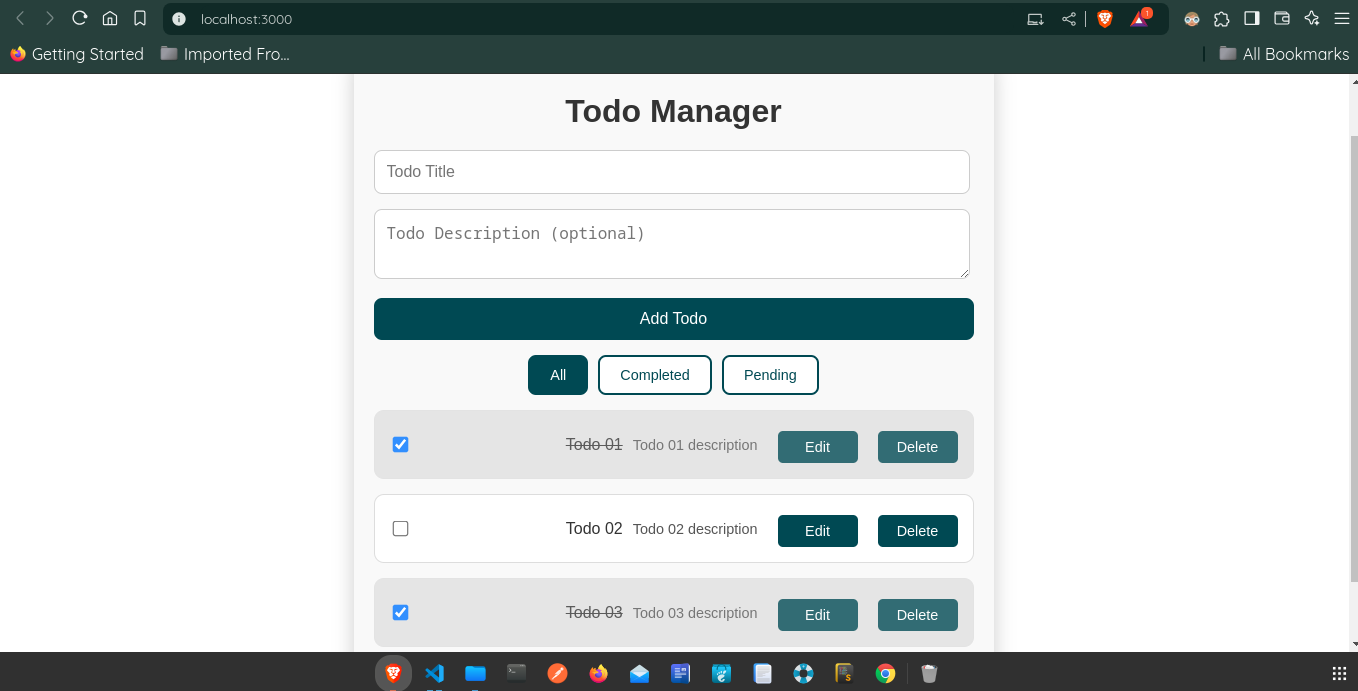
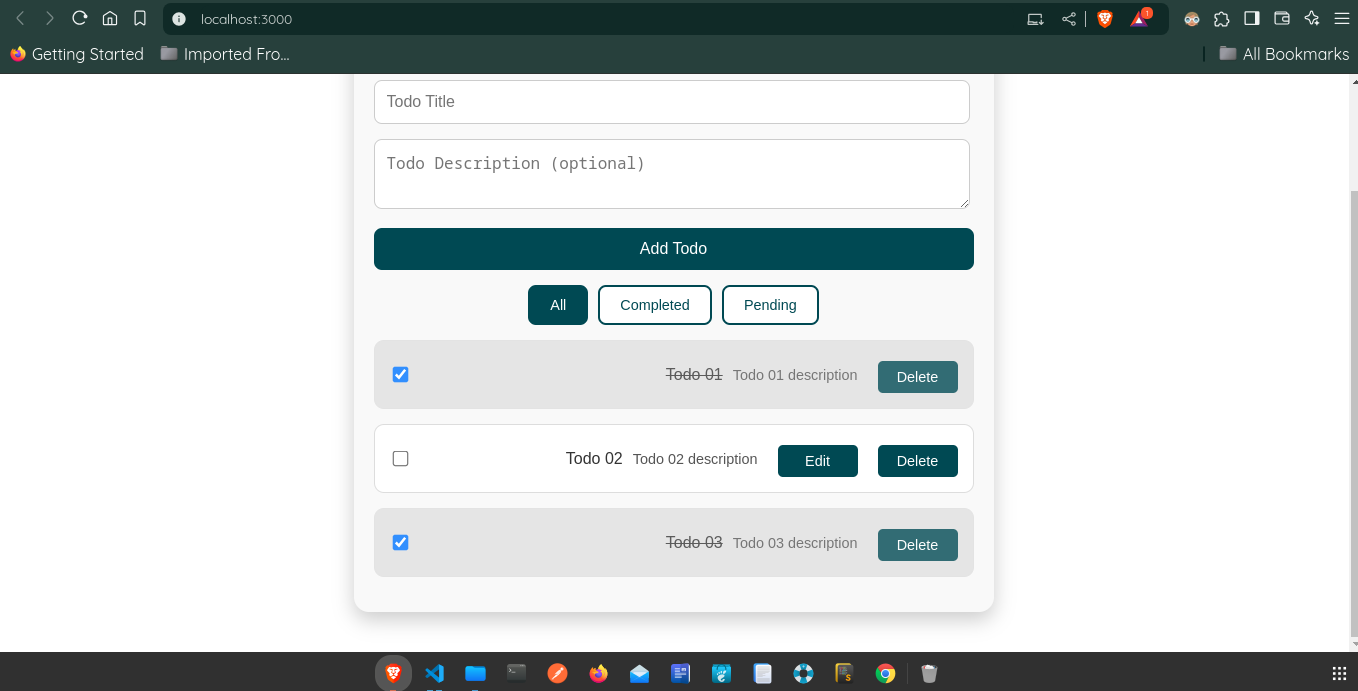
Frontend Part of Todo Application is completed!

diff --git a/src/components/TodoItem.js b/src/components/TodoItem.js
@@ -83,7 +83,9 @@ function TodoItem({ todo, onDelete, onUpdate }) {
             {todo.title}
           </span>
           {todo.description && <p>{todo.description}</p>}
-          <button onClick={() => setIsEditing(true)}>Edit</button>
+          {!todo.completed && (
+            <button onClick={() => setIsEditing(true)}>Edit</button>
+          )}
           <button onClick={handleDelete}>Delete</button>
         </div>
       )}
